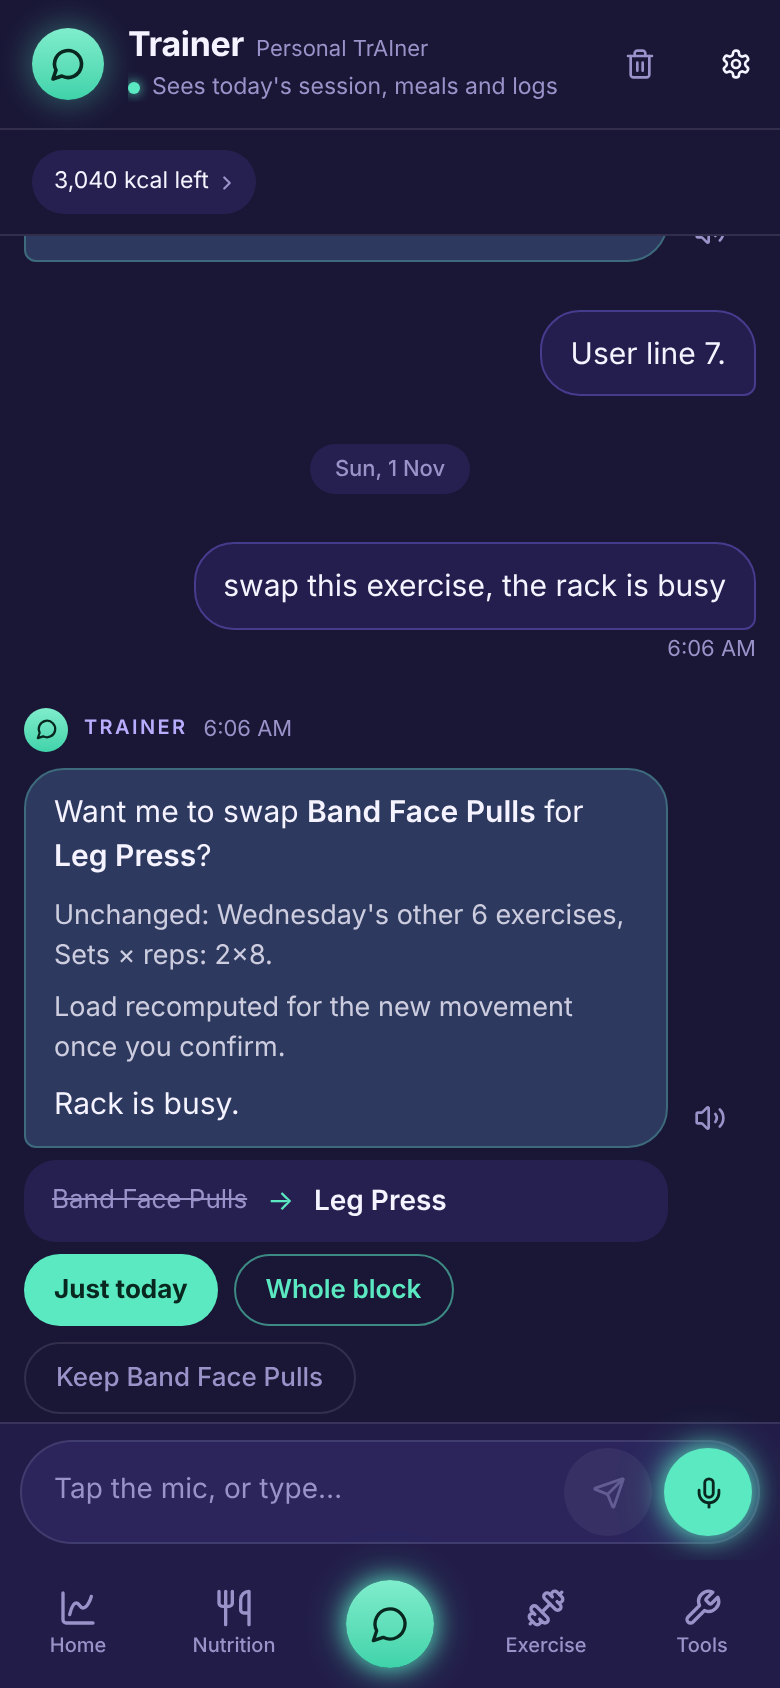
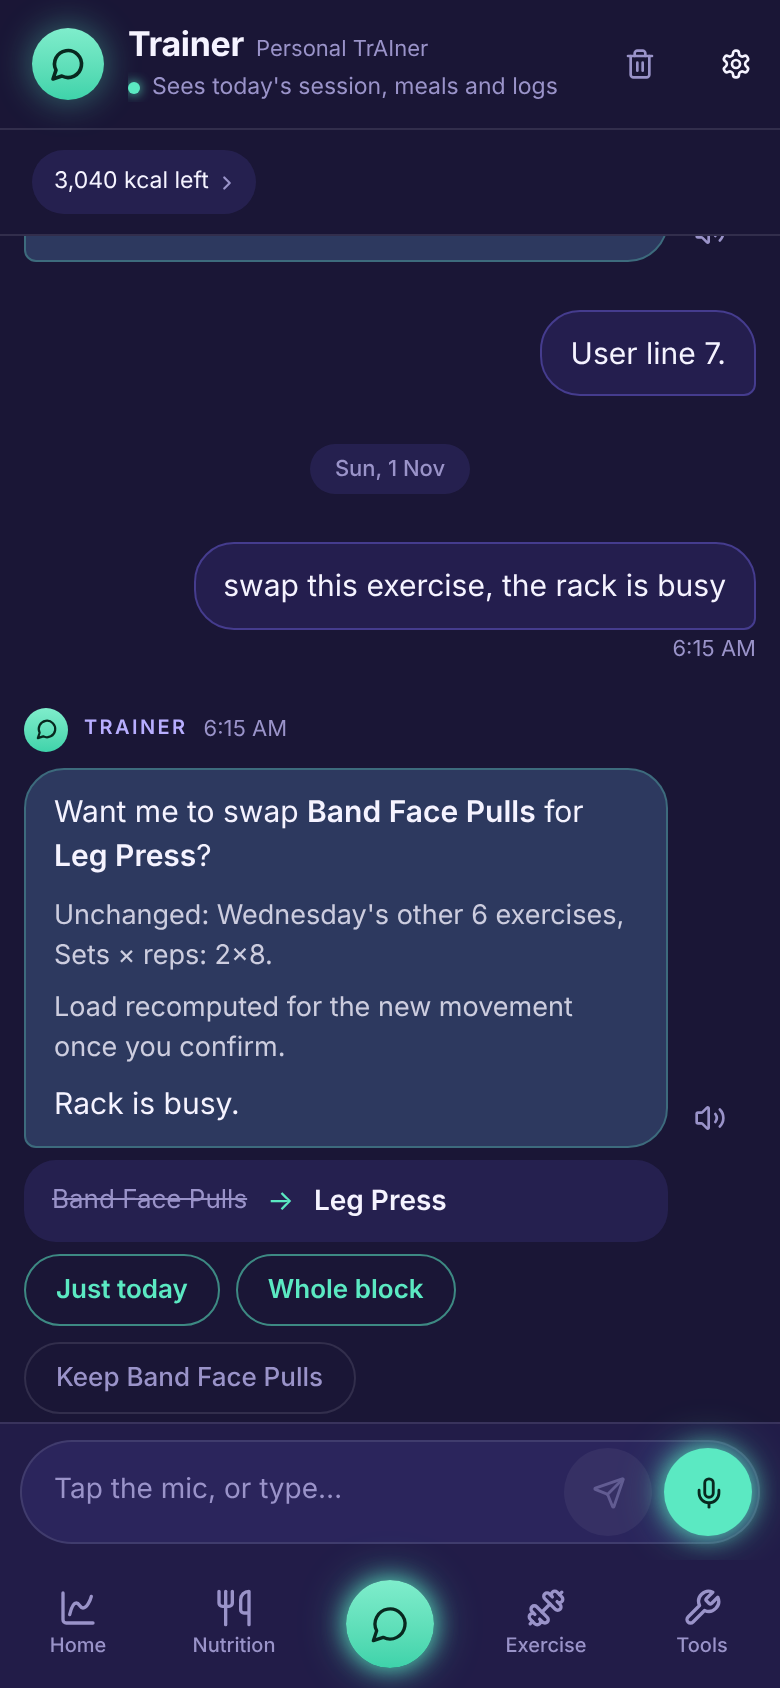
test:offer-text re-anchored on her "All outlined": no pill filled; screenshots retaken
Zero main-colour fills, every pill a bordered outline. Mutation (first pill
filled again): caught by test:offer-text and verify:chat-2b. Derived set:
14 gates, 13 green before this fix, offer-text green after.

Claude-Session: https://claude.ai/code/session_01UmEbxThL1DZqgogKqwvqur

diff --git a/scripts/test-offer-text.ts b/scripts/test-offer-text.ts
@@ -123,8 +123,10 @@ console.log('\n§4 The offer is the coach\'s bubble, with nothing of the card')
   // so: no glow anywhere, the fill appears once, on the primary weight only, and that pill is word-sized (36px, h-9).
   const fills = card.match(/\bbg-primary\b/g) ?? []
   const pillFn = (card.match(/const pill = \(weight[\s\S]*?\n {2}const small/) || [''])[0]
-  check('no big glowing button: no glow; the main colour fills ONE word-sized pill, the primary answer, and nothing else', !/glow-mint-box/.test(card) && fills.length === 1
-    && /weight === 'primary'\s*\?\s*'bg-primary /.test(pillFn) && /inline-flex h-9 items-center/.test(pillFn), { fills: fills.length, pillFn: pillFn.slice(0, 200) })
+  // RE-ANCHORED AGAIN 1 Nov 2026, her "All outlined": nothing is filled with the main colour now, the first answer
+  // included. Same guard (no glow, no solid main-colour block), stricter: zero fills, every pill a bordered outline.
+  check('no big glowing button: no glow, no pill filled with the main colour, every pill a word-sized outline', !/glow-mint-box/.test(card) && fills.length === 0
+    && /rounded-full border /.test(pillFn) && /inline-flex h-9 items-center/.test(pillFn), { fills: fills.length, pillFn: pillFn.slice(0, 200) })
   check('every button keeps the 44px tap target', (card.match(/<button/g) ?? []).length >= 3 && !/<button[^>]*className="(?![^"]*min-h-\[44px\])/.test(card) && /const small = '[^']*min-h-\[44px\]/.test(card))
   const site = chat.indexOf('<ProposalCard')
   const cards = chat.indexOf('data-testid="chat-cards"')
